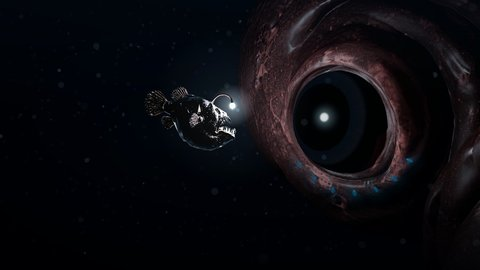
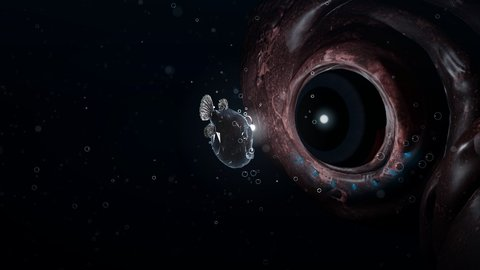
abyss-eye: a faint glow on the whole fish, and fine rising foam
The anglerfish gets a cold glow over its whole body (in its own material,
so it never lights the squid) and a stronger rim. Bubbles: 300 fine foam
bubbles rise in small strings across the whole view all the time, the fish
trickles single bubbles from its gills, and every event burst is bigger.

diff --git a/themes/abyss-eye/index.html b/themes/abyss-eye/index.html
@@ -241,7 +241,18 @@ const snowMats = [makeSnow(1500, [9, 6, 10], -0.6, 1.0, 1.5), makeSnow(140, [1.5
  * One Points cloud of 48 slots; the CPU only writes a slot's attributes when it spawns, the vertex shader integrates the
  * rise from the birth time. Additive, so a bubble's middle is the black water and only its thin rim and the lure's
  * highlight on it show — the way a bubble looks in the dark. */
-const BUB_N = 48;
+const BUB_FRAG = /* glsl */`
+    uniform float uLight; varying float vA, vLit, vAmb; varying vec2 vToL;
+    void main() {
+      vec2 c = gl_PointCoord - 0.5; float r = length(c);
+      if (r > 0.5) discard;
+      float ring = smoothstep(0.50, 0.44, r) * smoothstep(0.30, 0.40, r);            // thin fresnel rim
+      float spot = smoothstep(0.09, 0.0, length(c - vToL * 0.30)) * 1.6;            // the lure's highlight, lure side
+      float back = smoothstep(0.07, 0.0, length(c + vToL * 0.22)) * 0.5;            // a dimmer one opposite (refraction)
+      float a = min(1.0, (ring * 0.55 + spot + back) * (0.02 + vAmb + vLit * uLight * 2.0) * vA);
+      gl_FragColor = vec4(vec3(0.80, 0.93, 1.0) * a, a);
+    }`;
+const BUB_N = 128;
 const bubGeo = new THREE.BufferGeometry();
 const bubAttr = {};
 for (const [k, n] of [['position', 3], ['born', 1], ['seed', 1], ['size', 1], ['life', 1], ['rise', 1], ['fogK', 1]]) {
@@ -273,22 +284,64 @@ const bubMat = new THREE.ShaderMaterial({
       float fd = uFog * length(mv.xyz) * fogK;
       vA = alive * smoothstep(0.0, 0.3, age) * smoothstep(life, life * 0.7, age) * exp(-fd * fd);   // the murk eats the squid's
     }`,
-  fragmentShader: /* glsl */`
-    uniform float uLight; varying float vA, vLit, vAmb; varying vec2 vToL;
-    void main() {
-      vec2 c = gl_PointCoord - 0.5; float r = length(c);
-      if (r > 0.5) discard;
-      float ring = smoothstep(0.50, 0.44, r) * smoothstep(0.30, 0.40, r);            // thin fresnel rim
-      float spot = smoothstep(0.09, 0.0, length(c - vToL * 0.30)) * 1.6;            // the lure's highlight, lure side
-      float back = smoothstep(0.07, 0.0, length(c + vToL * 0.22)) * 0.5;            // a dimmer one opposite (refraction)
-      float a = min(1.0, (ring * 0.55 + spot + back) * (0.02 + vAmb + vLit * uLight * 2.0) * vA);
-      gl_FragColor = vec4(vec3(0.80, 0.93, 1.0) * a, a);
-    }`,
+  fragmentShader: BUB_FRAG,
 });
 const bubbles = new THREE.Points(bubGeo, bubMat);
 bubbles.frustumCulled = false;
 scene.add(bubbles);
 let bubSlot = 0;
+// ...and fine foam rising all the time (user 2026-10-25: more bubbles, real fine foam). Small clusters of 1.5–4.5 mm
+// bubbles drift up through the whole frame, wrapping like the snow; no CPU work per frame.
+const FOAM_N = 300, FOAM_Z = [0.4, 1.6];          // depth range; x/y are spread over the view at each depth
+const foamGeo = new THREE.BufferGeometry();
+{
+  const p = new Float32Array(FOAM_N * 3), seed = new Float32Array(FOAM_N), size = new Float32Array(FOAM_N), rise = new Float32Array(FOAM_N),
+        wrap = new Float32Array(FOAM_N);
+  const tanH = Math.tan(THREE.MathUtils.degToRad(CONFIG.fov) / 2);
+  let i = 0;
+  while (i < FOAM_N) {                               // clusters of 2–8 sharing a path, like a stream of fine bubbles
+    const cz = -(FOAM_Z[0] + Math.random() * (FOAM_Z[1] - FOAM_Z[0])), hh = tanH * -cz * 1.15, hw = hh * 1.9;
+    const cx = (Math.random() - 0.5) * 2 * hw, cy = (Math.random() - 0.5) * 2 * hh;
+    const n = 2 + Math.floor(Math.random() * 7), cr = 0.04 + Math.random() * 0.05;
+    for (let k = 0; k < n && i < FOAM_N; k++, i++) {
+      p[i * 3] = cx + (Math.random() - 0.5) * 0.02; p[i * 3 + 1] = cy - k * (0.015 + Math.random() * 0.03); p[i * 3 + 2] = cz + (Math.random() - 0.5) * 0.02;
+      wrap[i] = 2 * hh + 0.1; seed[i] = Math.random(); size[i] = 0.0015 + Math.pow(Math.random(), 2) * 0.003; rise[i] = cr * (0.9 + Math.random() * 0.2);
+    }
+  }
+  foamGeo.setAttribute('position', new THREE.BufferAttribute(p, 3));
+  foamGeo.setAttribute('seed', new THREE.BufferAttribute(seed, 1));
+  foamGeo.setAttribute('size', new THREE.BufferAttribute(size, 1));
+  foamGeo.setAttribute('rise', new THREE.BufferAttribute(rise, 1));
+  foamGeo.setAttribute('wrap', new THREE.BufferAttribute(wrap, 1));     // each wraps over the view's height at its depth
+}
+const foamMat = new THREE.ShaderMaterial({
+  transparent: true, depthWrite: false, blending: THREE.AdditiveBlending,
+  uniforms: { uTime: { value: 0 }, uPx: { value: 1 }, uFog: { value: 0 }, uLight: { value: 0 },
+              uLure: { value: new THREE.Vector3() } },
+  vertexShader: /* glsl */`
+    attribute float seed, size, rise, wrap;
+    uniform float uTime, uPx, uFog; uniform vec3 uLure;
+    varying float vA, vLit, vAmb; varying vec2 vToL;
+    void main() {
+      vec3 p = position;
+      float y = mod(p.y + uTime * rise + wrap * 0.5, wrap);                              // rises, wraps
+      p.y = y - wrap * 0.5;
+      p.x += sin(uTime * (2.0 + 2.0 * seed) + seed * 40.0) * (0.002 + size * 2.0);  // a quick little zig-zag
+      vec4 mv = modelViewMatrix * vec4(p, 1.0);
+      gl_Position = projectionMatrix * mv;
+      gl_PointSize = max(3.0, uPx * size * 1800.0 / max(0.3, -mv.z));          // ≥ 3 px so the rim still reads
+      float d = length(p - uLure);
+      vLit = 1.0 / (1.0 + d * d * 30.0);
+      vAmb = 0.6;
+      vToL = normalize((viewMatrix * vec4(normalize(uLure - p), 0.0)).xy + 1e-4); vToL.y = -vToL.y;
+      float fd = uFog * length(mv.xyz);
+      vA = smoothstep(0.0, 0.05, y) * smoothstep(wrap, wrap - 0.05, y) * exp(-fd * fd);  // fade at the wrap, and in the murk
+    }`,
+  fragmentShader: BUB_FRAG,
+});
+const foam = new THREE.Points(foamGeo, foamMat);
+foam.frustumCulled = false;
+scene.add(foam);
 function spawnBubbles(origin, n, spread, size, rise, life, fogK) {
   for (let k = 0; k < n; k++) {
     const i = bubSlot++ % BUB_N, R = () => Math.random() - 0.5;
@@ -465,12 +518,18 @@ function lookAtLure(dt, t, L) {
   }
 }
 
-// a cold back-light rim on the fish (fresnel), so its fins, spines and teeth read as a silhouette even in the dark
+// a cold back-light rim on the fish (fresnel), so its fins, spines and teeth read as a silhouette even in the dark,
+// plus a faint glow over the whole body (user 2026-10-25: the fish was too dark)
+const fishU = { uGlow: { value: 0.6 }, uRim: { value: 0.6 } };
 function fishRim(mat) {
   mat.onBeforeCompile = sh => {
+    Object.assign(sh.uniforms, fishU);
+    sh.fragmentShader = sh.fragmentShader.replace('#include <common>', '#include <common>\nuniform float uGlow, uRim;');
     sh.fragmentShader = sh.fragmentShader.replace('#include <emissivemap_fragment>', `#include <emissivemap_fragment>
       { float f = pow(1.0 - abs(dot(normalize(vNormal), normalize(vViewPosition))), 3.0);
-        totalEmissiveRadiance += vec3(0.30, 0.45, 0.62) * f * 0.35; }`);
+        totalEmissiveRadiance += vec3(0.30, 0.45, 0.62) * f * uRim;
+        // and a faint cold glow over the whole body, as if the lure's light lingered on it: the fish must always read
+        totalEmissiveRadiance += (diffuseColor.rgb + 0.02) * vec3(0.55, 0.7, 0.85) * uGlow; }`);
   };
   mat.needsUpdate = true;
 }
@@ -554,7 +613,7 @@ function wiggle(o, x, y, z) { eTmp.set(x, y, z); o.quaternion.copy(rest.get(o)).
 
 let sceneTime = 0;
 const lurePos = new THREE.Vector3(), prevFish = new THREE.Vector3(), tmp = new THREE.Vector3(), qv = new THREE.Vector3();
-const bubPrev = { jaw: 0, br: 0, T: 0 };
+const bubPrev = { jaw: 0, br: 0, T: 0, trickle: 1 };
 function animate(dt) {
   sceneTime += dt;
   const T = CONFIG.timeOverride ?? (sceneTime % CONFIG.cycle);
@@ -640,18 +699,27 @@ function animate(dt) {
     const jaw = Math.sin(t * 0.45);
     if (bubPrev.jaw >= 0 && jaw < 0) {                                  // the jaw shuts: 1–3 tiny ones from the mouth
       fish.jaw.getWorldPosition(tmp).add(qv.set(0, 0, 0.02).applyQuaternion(fish.root.quaternion));
-      spawnBubbles(tmp, 2 + Math.floor(Math.random() * 3), 0.008, [0.003, 0.005], [0.025, 0.035], 4, 0);
+      spawnBubbles(tmp, 6 + Math.floor(Math.random() * 5), 0.01, [0.0015, 0.005], [0.025, 0.045], 4, 0);
     }
     bubPrev.jaw = jaw;
+    if ((bubPrev.trickle -= dt) <= 0) {                                // a single tiny one from the gills every 0.6–2 s
+      bubPrev.trickle = 0.6 + Math.random() * 1.4;
+      fish.jaw.getWorldPosition(tmp).add(qv.set(0, 0.01, -0.03).applyQuaternion(fish.root.quaternion));
+      spawnBubbles(tmp, 1, 0.01, [0.001, 0.0025], [0.03, 0.05], 4, 0);
+    }
   }
   if (squid.ready) {
     const br = Math.sin(t * 2 * Math.PI / 12);
     if (bubPrev.br >= 0 && br < 0 && appear > 0.8)                     // each exhale: a puff from the siphon, below frame, in front of the skin
-      spawnBubbles(tmp.copy(stage).add(qv.set(0.0, -0.25, 0.45)), 6 + Math.floor(Math.random() * 5), 0.08, [0.003, 0.009], [0.05, 0.09], 9, 1);
+      spawnBubbles(tmp.copy(stage).add(qv.set(0.0, -0.25, 0.45)), 18 + Math.floor(Math.random() * 10), 0.1, [0.0015, 0.009], [0.05, 0.09], 9, 1);
     if (bubPrev.T < 31 && T >= 31)                                      // it just moved: a bigger burst as it surfaces
-      spawnBubbles(tmp.copy(stage).add(qv.set(0.0, -0.28, 0.3)), 15 + Math.floor(Math.random() * 6), 0.15, [0.006, 0.014], [0.07, 0.09], 9, 1);
+      spawnBubbles(tmp.copy(stage).add(qv.set(0.0, -0.28, 0.3)), 35 + Math.floor(Math.random() * 10), 0.18, [0.002, 0.014], [0.07, 0.09], 9, 1);
     bubPrev.br = br; bubPrev.T = T;
   }
+  foamMat.uniforms.uTime.value = sceneTime;
+  foamMat.uniforms.uFog.value = scene.fog.density;
+  foamMat.uniforms.uLight.value = L * 5;
+  foamMat.uniforms.uLure.value.copy(lurePos);
   bubMat.uniforms.uTime.value = sceneTime;
   bubMat.uniforms.uFog.value = scene.fog.density;
   bubMat.uniforms.uLight.value = L * 5;
@@ -677,7 +745,7 @@ function resize() {
   renderer.setSize(innerWidth, innerHeight, false);
   camera.aspect = innerWidth / innerHeight; camera.updateProjectionMatrix();
   place();                                        // the stage point depends on the aspect ratio
-  for (const m of [...snowMats, bubMat]) m.uniforms.uPx.value = innerHeight * dpr * s / 600;
+  for (const m of [...snowMats, bubMat, foamMat]) m.uniforms.uPx.value = innerHeight * dpr * s / 600;
 }
 addEventListener('resize', resize);
 function render(dt) {
@@ -720,7 +788,7 @@ if (renderer) { resize(); if (!document.hidden) start(); }
 
 // testing hooks (themes/demo.html looks for window.theme)
 window.theme = window.abyss = {
-  requestState, applyState, STATES, PARAMS, CONFIG, squid, fish, scene, camera, THREE, place, stage, renderer,
+  requestState, applyState, STATES, PARAMS, CONFIG, squid, fish, scene, camera, THREE, place, stage, renderer, fishU,
   setSessions(a) { sessionsOverride = a ? Array.from({ length: 5 }, (_, i) => a[i] || null) : null; poll(); },
   setTime(sec) { CONFIG.timeOverride = sec; },                       // freeze the performance at a moment (null = run)
   frame(dt = 1 / FPS) { return render(dt); },

diff --git a/themes/abyss-eye/README.md b/themes/abyss-eye/README.md
@@ -37,7 +37,7 @@
 
 安康魚在眼睛左前方畫一個很小的圈（46 秒一圈，`CONFIG.fishOrbit`），身體大多朝著巨眼。牠以鏡頭前的定位點為中心，**一開場就在**，等巨眼從黑暗浮現。
 
-**安康魚的可見度不跟狀態走**（照概念圖）：自己有一盞固定亮度、0.3 m 內就熄的小燈（照不到巨獸），材質加冷藍色的邊緣光（金屬度 0、粗糙度至少 0.7，不再像金屬），餌球和核心光暈有最低亮度。只有巨獸的浮現跟著光量。
+**安康魚的可見度不跟狀態走**（照概念圖）：自己有一盞固定亮度、0.3 m 內就熄的小燈（照不到巨獸），材質加冷藍色的邊緣光，整條魚再加一層冷色微光（只在魚的材質裡，照不到巨獸；用戶 2026-10-25：魚太暗）（金屬度 0、粗糙度至少 0.7，不再像金屬），餌球和核心光暈有最低亮度。只有巨獸的浮現跟著光量。
 
 ## 鏡頭與構圖（`CONFIG`）
 
@@ -82,7 +82,7 @@
 - **左側霧洗**：魚後方一張 1.0 m、透明度 0.018 的藍色 sprite，只比角落亮幾個色階。
 - **光暈**：餌燈上疊兩張加法 sprite，一張小而亮的白核心、一張 0.22 m 的藍色散射（以前 0.6 m，比整個畫面還大，在魚周圍鋪了一層灰紗）。
 - **海雪**：兩團點，同一個 shader。遠處 1,500 顆細點，最小 1.5 px、對焦面後方幾乎不糊（氣氛優先）；鏡頭與眼睛之間（z −0.3～−1.5）140 顆大的散景雪。陰影裡暗、餌燈旁亮（約 4：1）：雪要「少而亮」，多而灰就成了一層霧。
-- **氣泡**：只做事件，不做連續的泡泡柱（那是水族箱）。安康魚每次閉嘴吐 2–4 顆小泡（被餌燈打成亮環＋燈側高光，不吃霧）；巨獸每 12 秒吐氣從右下冒一小撮暗泡；第 31 秒浮現時噴一口大泡。一個 48 格的 Points，CPU 只在噴發時寫屬性，上升由 vertex shader 依出生時間算。
+- **氣泡**：兩種。① **細碎泡沫**一直往上浮：300 顆 1.5–4.5 mm，成串 2–8 顆，依各自深度分佈在整個畫面、到頂再從底部繞回，零 CPU（用戶 2026-10-25：要有實感的細碎泡沫）。② **事件**：魚每 0.6–2 秒從鰓冒單顆小泡、每次閉嘴吐 6–10 顆；巨獸每 12 秒吐氣從右下冒 18–27 顆；第 31 秒浮現時噴 35–44 顆。事件泡是一個 128 格的 Points，CPU 只在噴發時寫屬性，上升由 vertex shader 依出生時間算。全部被餌燈打成亮環＋燈側高光；巨獸那邊的會被霧吃掉，魚的不會。
 - **底片顆粒**：CSS 疊層，一張以 128 為中心的噪聲圖，`mix-blend-mode: overlay`、12 %，用 `steps()` 位移。不要用 screen：它在純黑上平均抬高 9/255，整片黑會變灰。
 
 ## 技術
@@ -90,7 +90,7 @@
 - three.js r170，放在 `vendor/`（MIT，`vendor/LICENSE-three.txt`）。
 - 模型：`assets/abyss_head.glb`（魷魚頭，約 1.1 m、18,941 三角、2k 貼圖；`eye_L` 眼球、`photophore_L_01..07`）、`assets/anglerfish.glb`（0.185 m）。都是 Tripo 專業版產出再經 Blender 腳本處理。整隻魷魚 `colossal_squid.glb` 已從主題移除（留在素材庫）。
 - 30 fps 上限、像素預算 1920×1080 的一半。
-- 實測每格約 5.2–6 ms（1357×763，內建瀏覽器，`theme.frame()` 連跑 30 格、前後 `readPixels` 同步）。
+- 實測每格約 6.3–7.4 ms（1357×763，內建瀏覽器，`theme.frame()` 連跑 30 格、前後 `readPixels` 同步）。
 - 測試網址參數：`?t=55` 固定在演出第 55 秒、`?state=waiting` 固定狀態（不讀 state.json）。
 - `window.theme`：`requestState`、`applyState`、`setTime(秒|null)`、`setSessions([...])`、`frame()`、`place()`、`CONFIG`、`squid`、`fish`、`renderer`。
 
